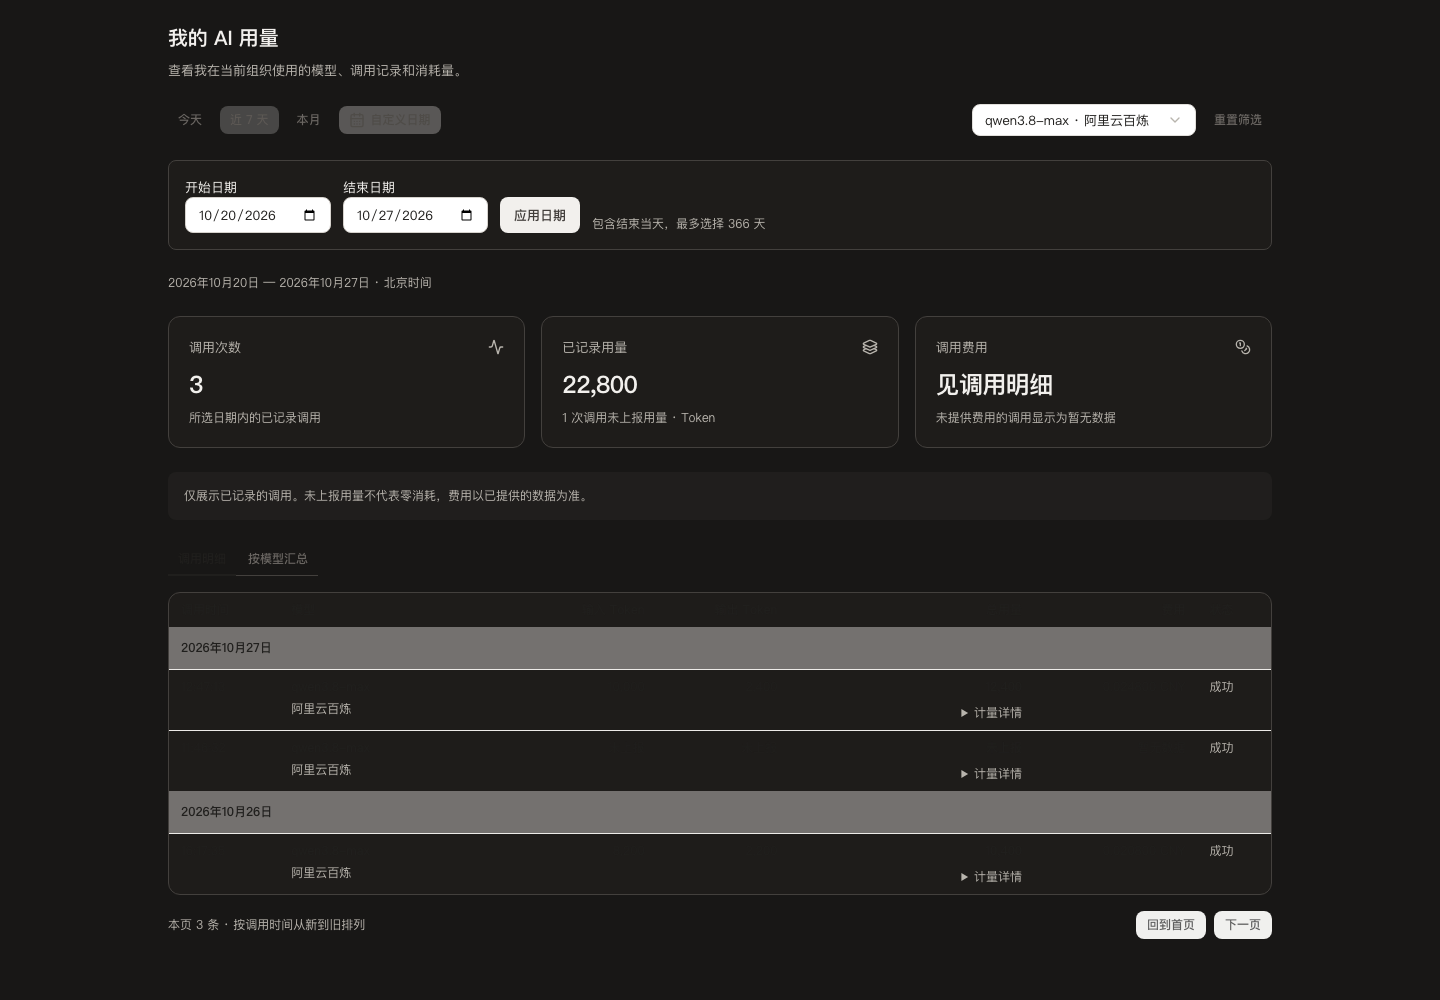
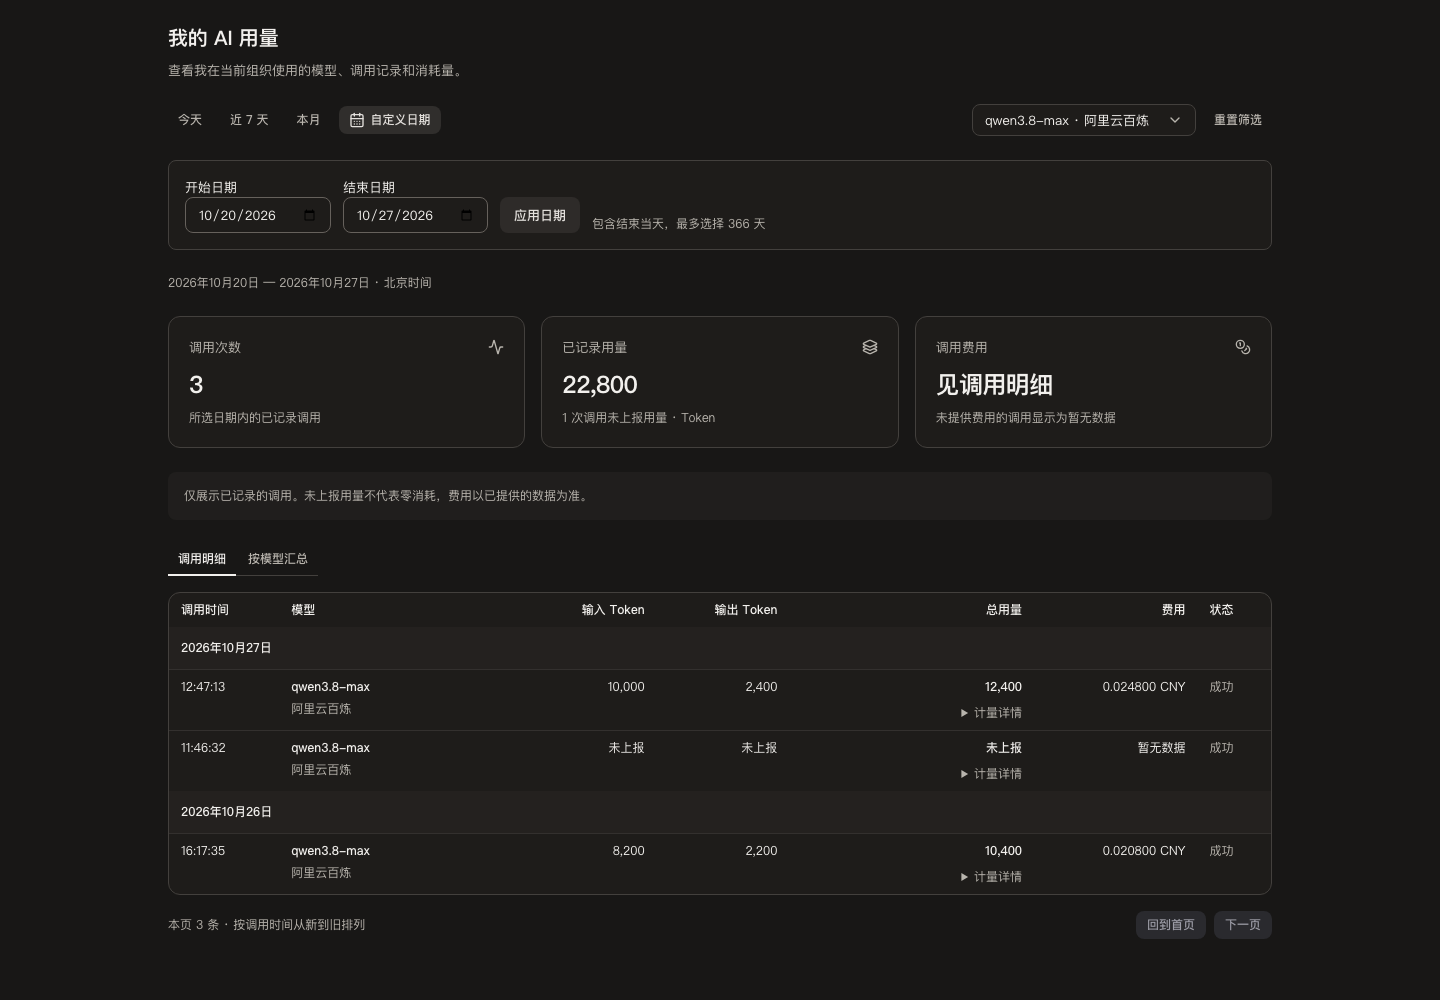
docs(usage): retain settled dark-theme browser evidence

diff --git a/docs/evidence/ai-usage-5943/progress.md b/docs/evidence/ai-usage-5943/progress.md
@@ -10,3 +10,4 @@ User approved the bill-style layout on 2026-10-27. Implemented in the existing w
 - Validation: init.sh baseline; 24 relevant UI/formatting tests; Web typecheck; ESLint on affected files; full design lint.
 - Browser check uses the actual bundled components and design CSS with explicitly intercepted fixture ledger endpoints, not live production data.
 - Coordination boundary: harness readiness/active-features ran; tick cannot run without COORD_GATEWAY_URL. No coordination identities or leases fabricated.
+- PR: https://github.com/boardx/workspacex/pull/5944. Push hook also passed full Web lint and typecheck. Browser screenshots were visually inspected; dark capture now explicitly waits for theme transitions to settle before checking inherited table color.

diff --git a/docs/evidence/ai-usage-5943/session-handoff.md b/docs/evidence/ai-usage-5943/session-handoff.md
@@ -11,3 +11,5 @@ Verification commands:
 - `node docs/evidence/ai-usage-5943/browser-check.cjs`
 
 Browser script binds a temporary loopback server, runs headless Chromium, then closes browser/server and removes temporary build files in finally. No Docker resources were started. Existing worktree retained for PR follow-up.
+
+PR #5944 created and attached to chat. CI is running; no deployment or merge performed. Follow the latest head checks before treating the PR as ready for merge.
